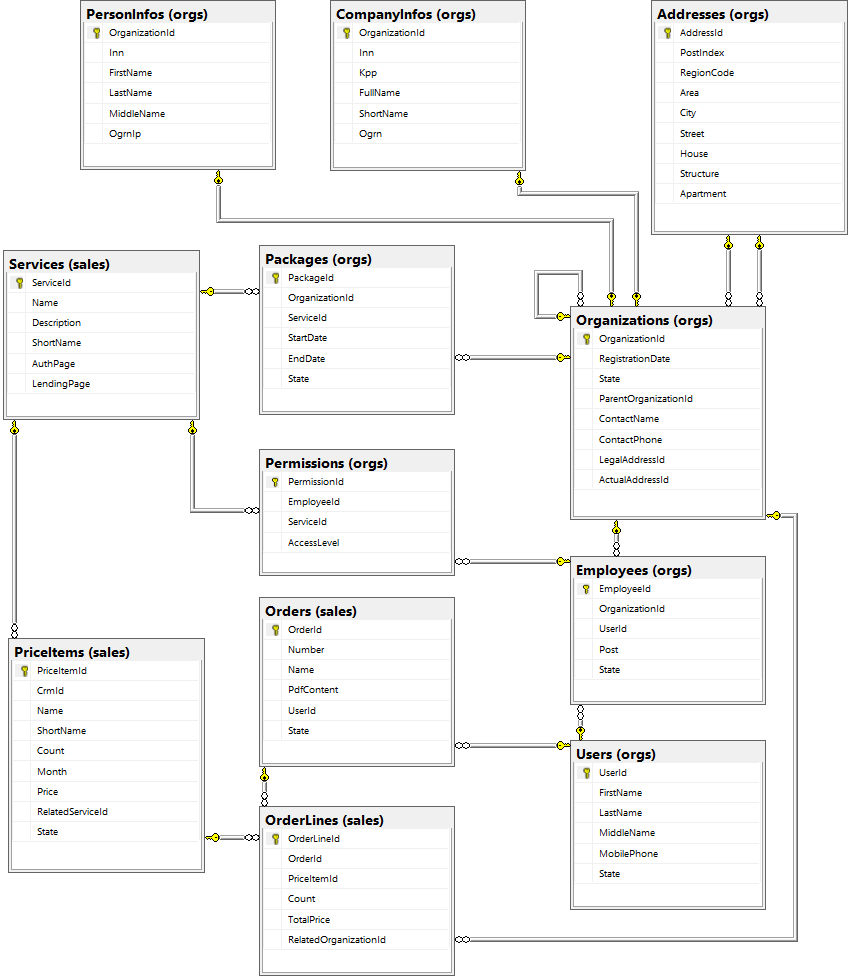
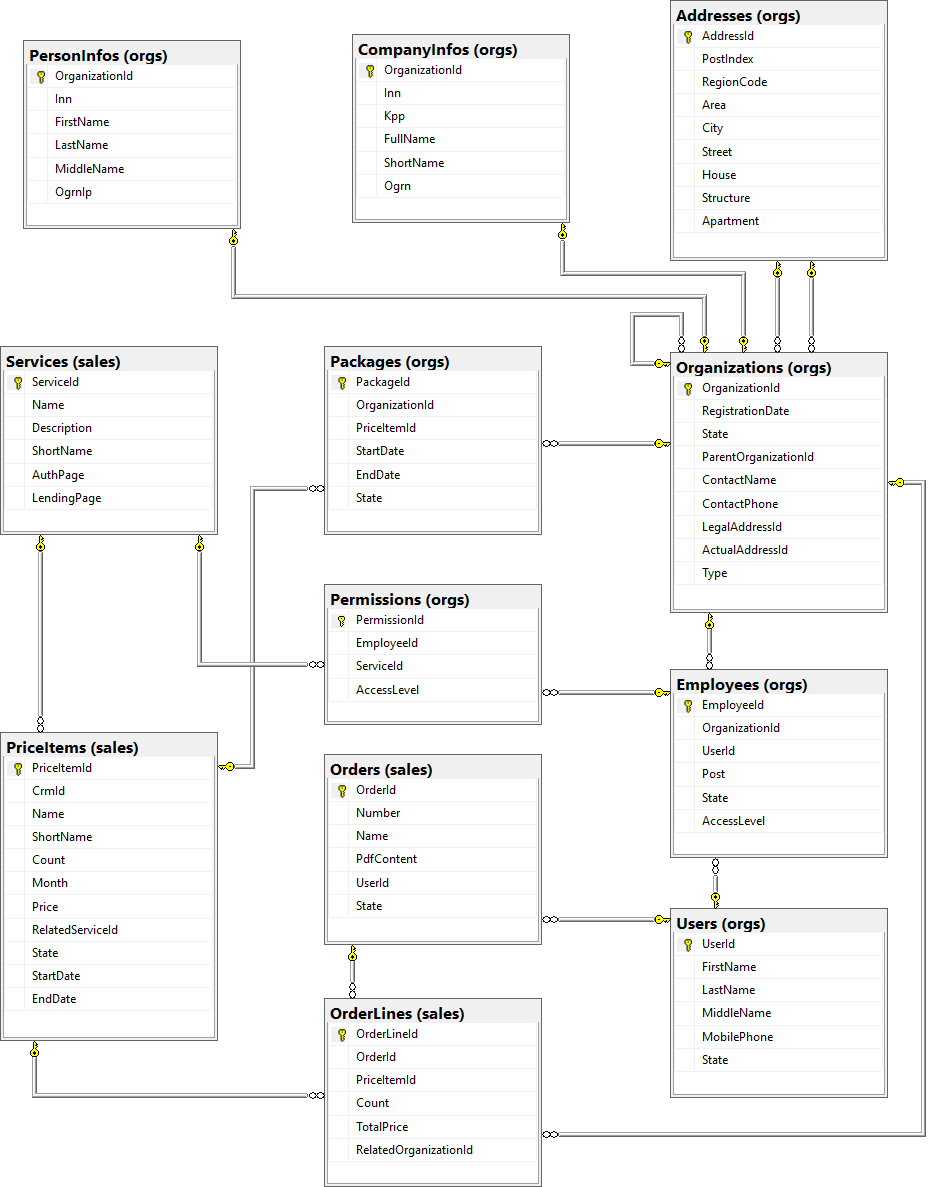
Правки в проекте

diff --git a/project/README.md b/project/README.md
@@ -3,15 +3,17 @@
 Проект является развитием и переосмыслением рабочего проекта.
 
 ## Описание: 
-Личный кабинет будет представляет собой портал, на котором организации могут купить услуги и сервисы нашей компании, а также управлять пользователями, которые имеют доступ к этим сервисам.  
+Личный кабинет представляет собой портал, на котором организации могут купить услуги и сервисы нашей компании, а также управлять пользователями, которые имеют доступ к этим сервисам.  
 
 В рамках учебного проекта будем рассматривать следующий сценарий работы:
-1. В личном кабинете регистрируется пользователь (сотрудник орагинации). Регистрацию и авторизацию рассматривать в проекте не будем.
-2. Выбирает интересующие online сервисы (подписку на сервисы), лицензии на наше или стороннее ПО.
+1. В личном кабинете регистрируется пользователь. Регистрацию и авторизацию рассматривать в проекте не будем.
+2. Выбирает интересующие online сервисы (подписку на сервисы), ЭЦП, лицензии на наше или стороннее ПО.
 3. Если покупается подписка, то пользователь должен заполнить информацию об организации, для которой покупается подписка.
-4. В конце пользователю выставляется счет, который он оплчивает
-5. После поступления оплаты наша внутренняя CRM сообщяет (через очередь) срок действия подписки на приобретенный сервис.
-6. Теперь пользователь может использовать приобретенные сервисы и при необходиомсти добавлять новых пользователей для совместной работы.
+4. В конце пользователю выставляется счет, который он оплачивает
+5. После поступления оплаты наша внутренняя CRM сообщает (через очередь) срок действия подписки на приобретенный сервис.
+6. Теперь пользователь может использовать приобретенные сервисы
+7. При необходиомсти пользователь может подключать к своей организации других зарегистрированных пользователей для совместной работы в сервисах.
+8. Для каждого сотрудника можно задать, уровень доступа как для каждого подключенного сервиса, так и на изменение данных об организации и возможности покупки.
 
 
 ## Схема базы данных:
@@ -22,14 +24,14 @@
 1. Organizations - зарегистрированные организации. Могут быть как юр. лицами, так и физ. лицами. 
 Если юр. лицо, то должно быть заполнена таблица CompanyInfos, а если физ. лицо, то PersonInfos.
 Также у организации может быть, как один юридический адрес (связь по LegalAddressId), так и фактический адрес ActualAddressId. Фактический адрес может быть null, что обозначает, что адрес совпадает с юридическим.
-2. Users - зарегистрированные пользователи, которые могут авторизовываться в личном кабинете и в других сервисах, к которым у них есть доступ
-3. Employees - пользователи, которые связаны с органзиациями (являются сотрудниками)
-4. Services - сервисы нашей организации, которые мы продаем по подписке
+2. Users - зарегистрированные пользователи, которые могут авторизовываться в личном кабинете и в других сервисах. Авторизация в других сервисах возможна только под какой-то организацией в которой пользователь числится сотрудником. Пользователи без организации могут только что-то купить.
+3. Employees - пользователи, которые являются сотрудниками организации (Они сами купили подписку на сервис или их кто-то добавил в организацию)
+4. Services - сервисы нашей организации, которые мы продаем по подписке. Сервисы ориентированы только на организацию (сдача отчетности, электонный документооборот и др.)
 5. Permissions - права доступа сотрудника на купленные сервисы.
 6. Packages - купленные пакеты (подписки) на сервисы
-7. PriceItems - прайс лист на наши сервисы, выпуск эцп, и другие лицензии на програмное обеспечение. Позиции в прайс листе не меняются, если меняется цена, то создается новая позиция.
+7. PriceItems - прайс лист на тарифы наших сервисов, выпуск эцп, и другие лицензии на програмное обеспечение. Позиции в прайс листе не меняются, если меняется цена, то создается новая позиция.
 Если позиция - подписка на сервис, то в ней будет ссылка, на этот сервис. Пока не предполагается, что подписка может быть сразу на несколько сервиоов.
-8. Orders - заказы пользователей. В заказе может быть одна или несколько позиций (OrderLines). Если позиция в заказе - подписка на сервис, то также указывается для какой органзиации покупается эта подписка.
+8. Orders - заказы пользователей. В заказе может быть одна или несколько позиций (OrderLines). Если позиция в заказе - подписка на сервис, то также указывается для какой организации покупается эта подписка.
 
 
 [database_scheme]: images/database_scheme.png
